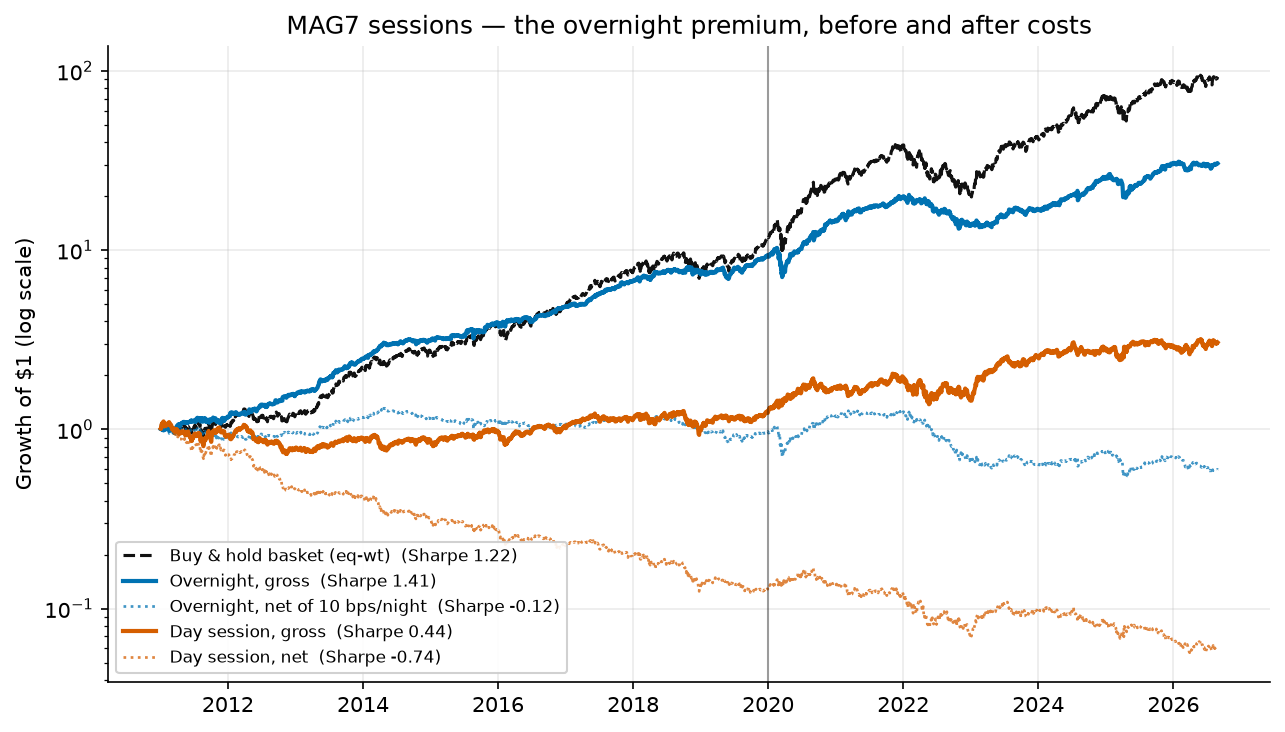
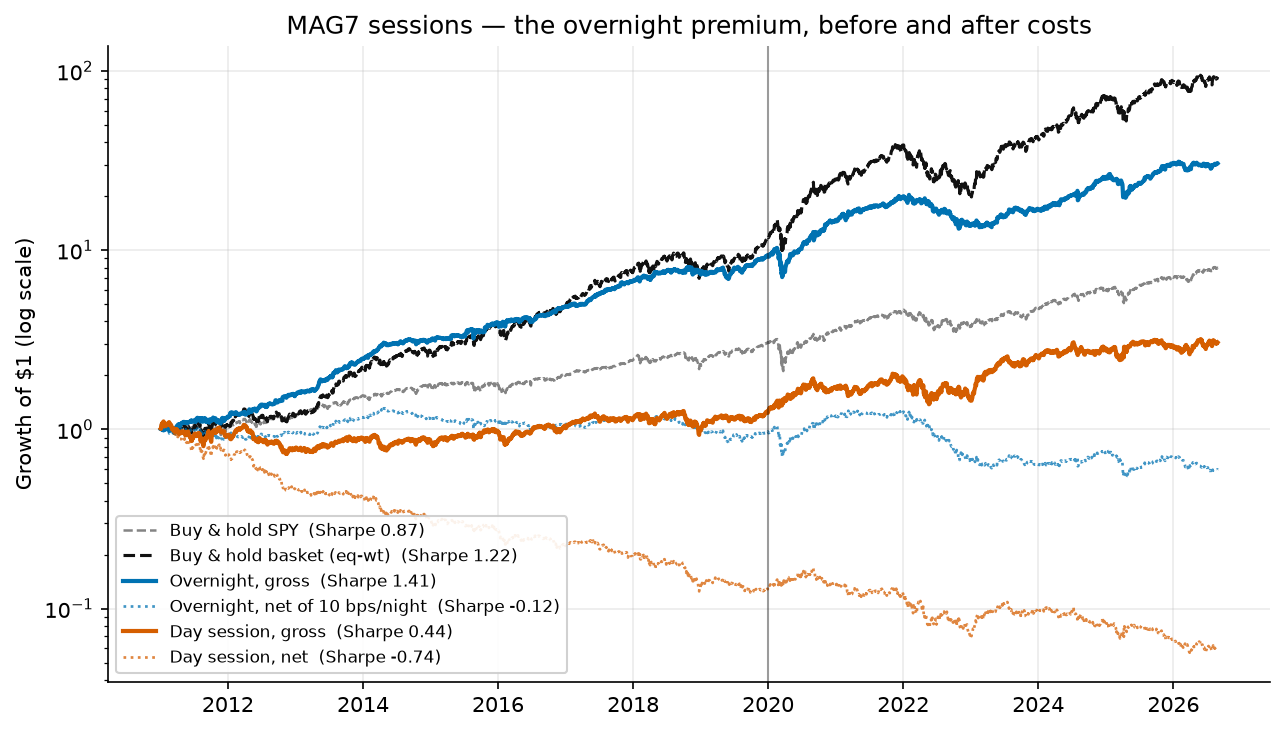
MAG7 overnight: add buy-and-hold SPY as a benchmark
The harness compared the overnight leg against the day session it skips and
against holding the MAG7 basket -- but the basket is seven of the largest growth
names in the best decade they ever had, which is not the reference a general
reader calibrates against. `run_benchmark.py` already carries SPY for exactly
this reason; this brings the second harness in line.

SPY scores 0.87 here against 0.94 in the pair benchmark, because this harness
starts in 2011 rather than 2012. Two different SPY Sharpes in one repo reads as
a bug, so the run states the window difference directly beneath the table.

Also sharpens what the row reveals: gross of costs the overnight leg returned
30.5x against SPY's 8.0x over the same nights, while the gross day session
returned 3.06x and underperformed it. The overnight premium is the dominant
term in fifteen years of MAG7 returns; it is just not reachable at 5 bps a
side, twice a night.

The chart carries SPY as a second reference line, and "multiply back to the
buy-and-hold row above" now says BASKET, since there are two such rows.

Claude-Session: https://claude.ai/code/session_01ThTMeu617GJ1TvMSAva22w

diff --git a/run_mag7_overnight.py b/run_mag7_overnight.py
@@ -18,12 +18,19 @@ import os
 
 import pandas as pd
 
-from common import StrategyResult, load_ohlc_universe, perf_stats, split_stats
+from common import (StrategyResult, buy_and_hold, fetch_close, load_ohlc_universe,
+                    perf_stats, split_stats)
 from common.engine import COST_PER_SIDE
 from strategies import mag7_overnight
 
 OOS_START = "2020-01-01"
 RESULTS_DIR = os.path.join(os.path.dirname(os.path.abspath(__file__)), "results")
+
+# The same outside reference `run_benchmark.py` carries, for the same reason: "did this beat the
+# S&P 500?" is the first question a general audience asks, and an equal-weight MAG7 basket does
+# not answer it -- that benchmark is seven of the largest growth names in the best decade they
+# ever had, so beating the day session while losing to SPY would be easy to miss without this row.
+EXTRA_BENCHMARK = "SPY"
 
 HEADER = (f"{'Strategy':<26}{'Sharpe':>8}{'IS':>7}{'OOS':>7}{'CAGR':>9}"
           f"{'Vol':>8}{'MaxDD':>9}{'Growth':>9}{'Exp':>7}{'Trades/yr':>11}")
@@ -100,6 +107,12 @@ def main() -> None:
     # The basket is already named in the header; repeating all seven tickers here overflows
     # the 26-character name column and shifts every numeric column out of alignment.
     bh = buy_and_hold_basket(ohlc, "Buy & hold basket (eq-wt)", index)
+    references = [bh]
+    if EXTRA_BENCHMARK not in args.tickers:
+        # Reindexed onto the same nights, and checked rather than assumed -- `buy_and_hold`
+        # raises rather than filling a missing day with a fabricated 0% return.
+        references.append(buy_and_hold(fetch_close(EXTRA_BENCHMARK), index,
+                                       f"Buy & hold {EXTRA_BENCHMARK} (S&P 500)"))
 
     lines = []
 
@@ -120,8 +133,15 @@ def main() -> None:
     emit("-" * len(HEADER))
     emit(_row(day_session.name, day_session.daily_ret, day_session.exposure,
               day_session.trades_per_year))
-    emit(_row(bh.name, bh.daily_ret, bh.exposure, None))
+    for ref in references:
+        emit(_row(ref.name, ref.daily_ret, ref.exposure, None))
     emit("=" * len(HEADER))
+    if len(references) > 1:
+        # Pre-empt a reader spotting two different SPY Sharpes in one repo and assuming a bug.
+        emit(f"  {EXTRA_BENCHMARK} is scored over THIS harness's window: {len(index)} nights "
+             f"from {index[0].date()}, which starts a year")
+        emit(f"  earlier than run_benchmark.py's. The two {EXTRA_BENCHMARK} rows in this repo "
+             f"cover different periods and so differ.")
 
     # The cost assumption, not the signal, is what decides this table -- so show the split.
     # At 10 bps a night over ~252 nights a year the drag is ~22%/yr, which is larger than
@@ -146,7 +166,7 @@ def main() -> None:
     emit(f"  The overnight leg breaks even at {breakeven_bps:.1f} bps/side; this run "
          f"charges {COST_PER_SIDE*1e4:.0f}.")
     emit("  Gross overnight and gross day-session growth multiply back to the buy-and-hold")
-    emit("  row above, which is the arithmetic check that the two sessions tile the period.")
+    emit("  BASKET row above -- the arithmetic check that the two sessions tile the period.")
 
     emit("")
     emit("Per-ticker overnight Sharpe (own history -- names IPO'd at different times):")

diff --git a/make_charts.py b/make_charts.py
@@ -234,6 +234,7 @@ def chart_mag7_sessions() -> None:
     idx = overnight.daily_ret.index
     day = day_session_basket(ohlc, idx)
     bh = buy_and_hold_basket(ohlc, "Buy & hold basket (eq-wt)", idx)
+    spy = buy_and_hold(fetch_close("SPY"), idx, "Buy & hold SPY")
 
     # Both gross and net are drawn. Net alone would be a chart about the cost assumption:
     # the two net lines fall to 0.60x and 0.06x and visibly do NOT reconstruct the
@@ -246,6 +247,7 @@ def chart_mag7_sessions() -> None:
         return (1.0 + series).cumprod()
 
     series = [
+        (spy.daily_ret, "Buy & hold SPY", "#777777", 1.2, "--", 0.9),
         (bh.daily_ret, "Buy & hold basket (eq-wt)", "#111111", 1.5, "--", 1.0),
         (overnight.daily_ret + cost, "Overnight, gross", "#0072B2", 2.0, "-", 1.0),
         (overnight.daily_ret, "Overnight, net of 10 bps/night", "#0072B2", 1.3, ":", 0.75),

diff --git a/README.md b/README.md
@@ -102,6 +102,12 @@ each close to the next open, every night, equal-weighted across whichever have l
 | MAG7 overnight (close → open) | −0.12 | 0.04 | −0.27 | −3.3% | 16.5% | −59.5% | 0.60× |
 | *Day session (the part it skips)* | −0.74 | −1.16 | −0.35 | −16.5% | 21.3% | −94.8% | 0.06× |
 | *Buy & hold the basket, equal-weight* | **1.22** | 1.34 | 1.15 | 33.6% | 26.7% | −49.4% | 93× |
+| *Buy & hold **SPY** (S&P 500)* | 0.87 | 0.94 | 0.82 | 14.2% | 17.0% | −33.7% | 8.0× |
+
+SPY appears here for the same reason it appears in the table above — it is the reference a general
+audience actually calibrates against, and an equal-weight MAG7 basket is not one. Note it scores
+0.87 here against 0.94 in the pair benchmark: this harness starts in 2011 rather than 2012, so the
+two SPY rows cover different windows. Neither is wrong; they are not the same measurement.
 
 Those net numbers are almost entirely an artefact of the cost assumption, so the split matters
 more than the total:
@@ -112,6 +118,11 @@ more than the total:
 | Overnight, net of 10 bps/night | −0.12 | −3.3% | 0.60× |
 | Day session, **gross** | 0.44 | 7.4% | 3.06× |
 | Day session, net | −0.74 | −16.5% | 0.06× |
+
+Set against SPY's 8.0×, the split is starker still: **gross, the overnight leg alone returned
+roughly four times the S&P 500 over the same nights (30.5× against 8.0×), while the day session
+underperformed it (3.06×).** The premium is not a rounding artefact — it is the dominant term in
+fifteen years of MAG7 returns. It is simply not reachable through 5 bps a side, twice a night.
 
 Full generated output: [`results/mag7_overnight.md`](results/mag7_overnight.md).
 

diff --git a/results/mag7_overnight.md b/results/mag7_overnight.md
@@ -14,7 +14,10 @@ MAG7 Overnight               -0.12   0.04  -0.27    -3.3%   16.5%   -59.5%    0.
 -----------------------------------------------------------------------------------------------------
 Day session (skipped)        -0.74  -1.16  -0.35   -16.5%   21.3%   -94.8%    0.06x   100%       1742
 Buy & hold basket (eq-wt)     1.22   1.34   1.15    33.6%   26.7%   -49.4%   92.79x   100%          -
+Buy & hold SPY (S&P 500)      0.87   0.94   0.82    14.2%   17.0%   -33.7%    7.96x   100%          -
 =====================================================================================================
+  SPY is scored over THIS harness's window: 3937 nights from 2011-01-03, which starts a year
+  earlier than run_benchmark.py's. The two SPY rows in this repo cover different periods and so differ.
 
 Gross vs net -- where the result actually comes from:
 Leg                          Sharpe     CAGR    Growth      
@@ -25,7 +28,7 @@ Day session, net              -0.74   -16.5%     0.06x
   Cost drag at 10 bps/night x 252 nights = -22.3%/yr.
   The overnight leg breaks even at 4.6 bps/side; this run charges 5.
   Gross overnight and gross day-session growth multiply back to the buy-and-hold
-  row above, which is the arithmetic check that the two sessions tile the period.
+  BASKET row above -- the arithmetic check that the two sessions tile the period.
 
 Per-ticker overnight Sharpe (own history -- names IPO'd at different times):
   AAPL     Sharpe  -0.70   CAGR   -13.7%   3937 nights from 2011-01-03
